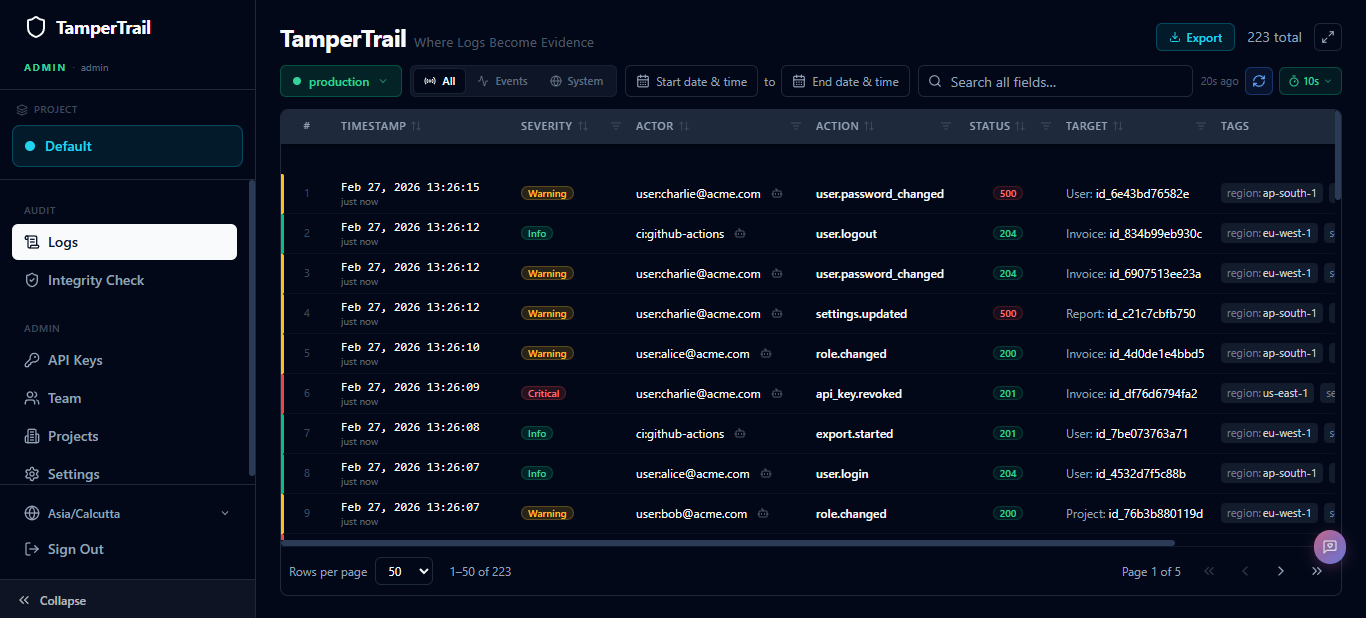
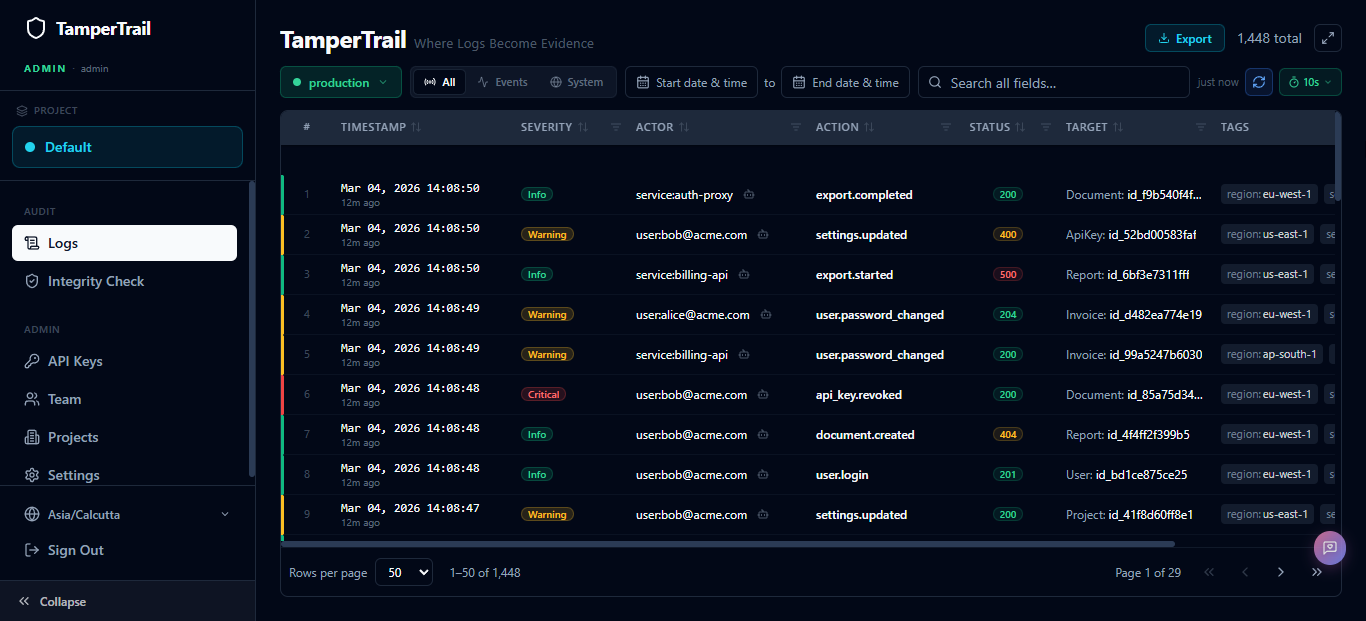
feat: improvemnts

diff --git a/docs/TamperTrail - CTO Architecture Whitepaper.md b/docs/TamperTrail - CTO Architecture Whitepaper.md
@@ -1,8 +1,12 @@
 # TamperTrail — CTO & Security Architecture Guide
 
+**Document Type:** Executive Whitepaper
+**Classification:** Public  
 **Audience:** Chief Technology Officers, Chief Security Officers, Principal Engineers, and Security Auditors.
-
+**Version:** 1.0 — March 2026
 **Purpose:** A transparent, technically rigorous description of TamperTrail's internal architecture, security model, cryptographic guarantees, performance engineering, and the shared responsibility framework governing the boundary between what TamperTrail protects and what the customer must protect.
+**Keywords:** audit log data governance, GDPR audit trail, CCPA compliance logging, privacy by design, encrypted audit log, immutable audit trail, data lifecycle management, HIPAA audit logging
+
 
 ---
 

diff --git a/docs/TamperTrail - CEO Decision Brief.md b/docs/TamperTrail - CEO Decision Brief.md
@@ -1,8 +1,9 @@
 # TamperTrail — Business Value & Executive Strategy Brief
 
-**Document Type:** Executive Whitepaper  
+**Document Type:** Executive Whitepaper
+**Classification:** Public
 **Audience:** Chief Executive Officers, Founders, Business Owners, and Strategic Procurement Decision-Makers  
-**Version:** 1.0 — February 2026  
+**Version:** 1.0 — March 2026  
 **Keywords:** audit log compliance software, SOC 2 compliance tool, HIPAA audit trail, self-hosted audit logging, data sovereignty software, enterprise compliance accelerator, immutable audit log
 
 ---

diff --git a/docs/TamperTrail - Security & Compliance Whitepaper.md b/docs/TamperTrail - Security & Compliance Whitepaper.md
@@ -1,8 +1,10 @@
 # TamperTrail — Security & Compliance Whitepaper
 
+**Document Type:** Executive Whitepaper
 **Classification:** Public  
 **Audience:** Chief Security Officers (CSOs), Data Protection Officers (DPOs), IT Compliance Auditors, and Enterprise Procurement Teams  
-**Version:** 1.0 — February 2026
+**Version:** 1.0 — March 2026
+**Keywords:** audit log data governance, GDPR audit trail, CCPA compliance logging, privacy by design, encrypted audit log, immutable audit trail, data lifecycle management, HIPAA audit logging
 
 ---
 

diff --git a/docs/TamperTrail - Privacy & Data Governance Whitepaper.md b/docs/TamperTrail - Privacy & Data Governance Whitepaper.md
@@ -1,8 +1,9 @@
 # TamperTrail — Data Governance Manual
 
+**Document Type:** Executive Whitepaper
 **Classification:** Public  
 **Audience:** Chief Data Officers (CDOs), Data Protection Officers (DPOs), Privacy Counsel, and Enterprise Compliance Teams  
-**Version:** 1.0 — February 2026  
+**Version:** 1.0 — March 2026  
 **Keywords:** audit log data governance, GDPR audit trail, CCPA compliance logging, privacy by design, encrypted audit log, immutable audit trail, data lifecycle management, HIPAA audit logging
 
 ---
